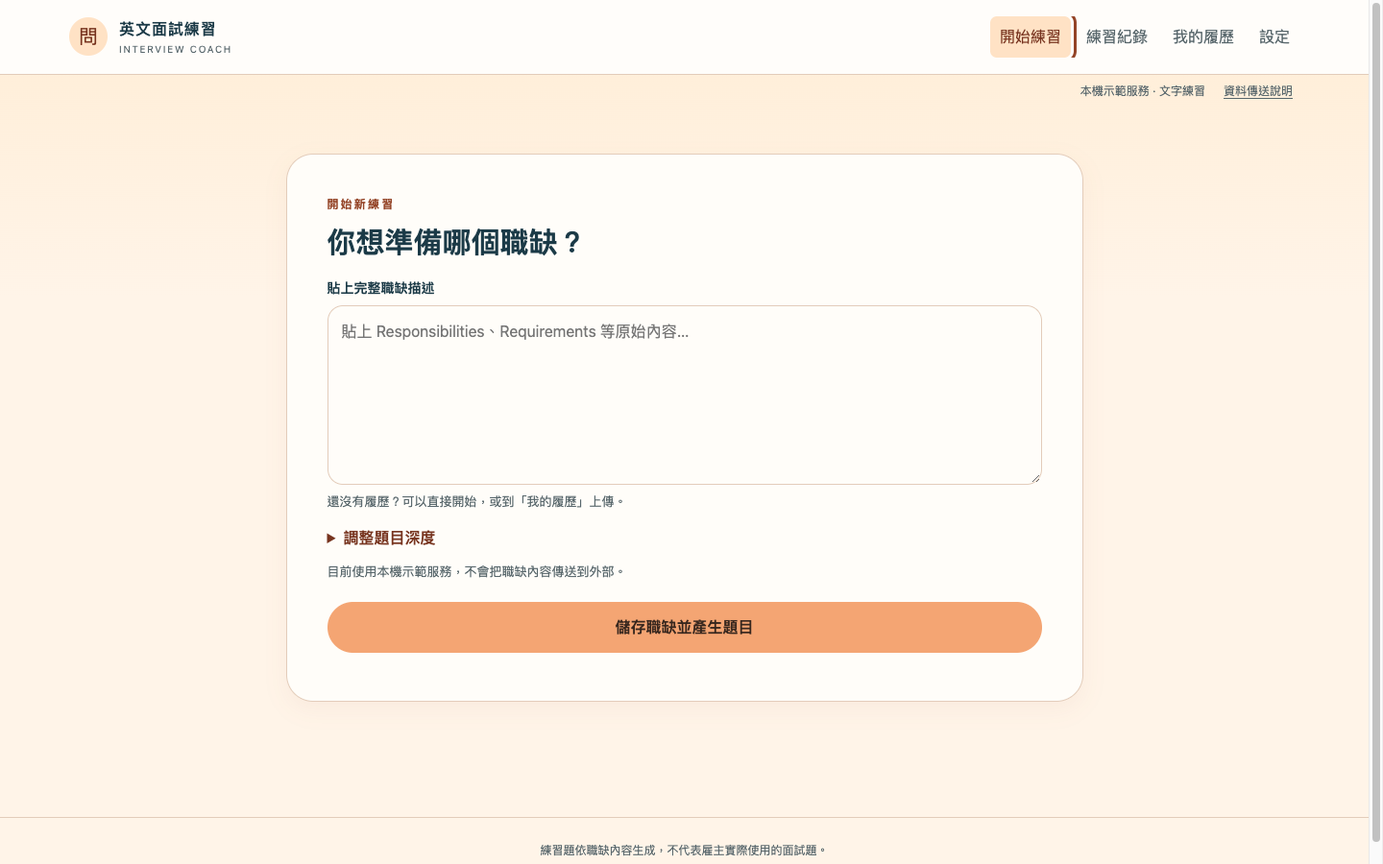
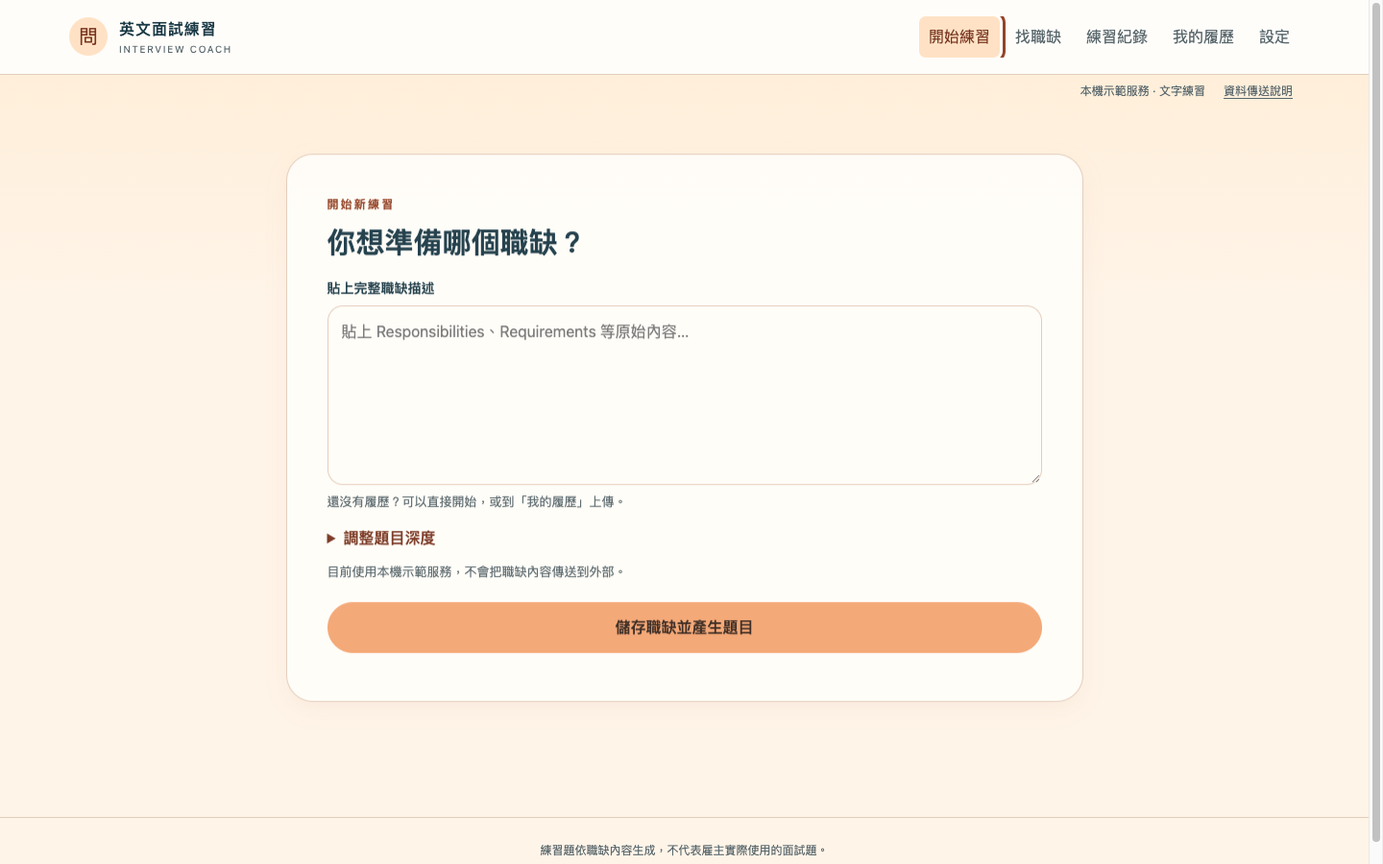
feat: Turn a natural-language job request into confirmable criteria
The learner describes the job they want in their own words and confirms the
criteria that were understood before anything is searched or saved. A field
the learner did not state comes back empty rather than guessed, and an invalid
provider output leaves the saved profile untouched.

The Job Search Profile gains a salary field; profiles written before this
change still validate with it empty. The proposal is stored separately from
the profile so a repeated request identifier replays instead of calling the
provider twice. The job search view also gains the navigation entry it was
missing, which had left it unreachable.

Closes docs/issues/0019-interpret-a-natural-language-job-request.md

Changed region(s): [[0.6562, 0.0, 0.7812, 0.0933], [0.25, 0.28, 0.3125, 0.3422], [0.5, 0.7156, 0.5312, 0.7467]]

diff --git a/test/search-interpretation.test.js b/test/search-interpretation.test.js
@@ -1,0 +1,126 @@
+import {test} from 'node:test';
+import assert from 'node:assert/strict';
+import {harness} from './helpers.js';
+import {FakeLanguageModel} from '../src/providers.js';
+import {profileFields} from '../src/jobs.js';
+
+const legacyProfile = {roles:['engineer'],locations:['Taipei'],seniority:['mid'],workArrangements:['hybrid'],priorities:['Python'],exclusions:['Senior']};
+
+test('a request becomes a proposal with unstated fields left empty, and nothing is saved until confirmed', async t => {
+  const model = new FakeLanguageModel();
+  const seen = [];
+  const original = model.interpretSearch.bind(model);
+  model.interpretSearch = async args => { seen.push(args); return original(args); };
+  const {api} = await harness(t, model);
+
+  const before = (await api('/job-search-profile')).data;
+  assert.deepEqual(Object.keys(before).sort(), [...profileFields].sort());
+  assert.ok(profileFields.every(field => before[field].length === 0), 'a fresh profile is empty, never guessed');
+
+  const result = (await api('/discovery/interpret', {request: '根據我的履歷，幫我找台灣適合轉職的 AI 職缺，最好能遠端'})).data;
+  assert.equal(seen.length, 1);
+  assert.equal(seen[0].request, '根據我的履歷，幫我找台灣適合轉職的 AI 職缺，最好能遠端');
+  assert.deepEqual(Object.keys(result.proposal).sort(), [...profileFields].sort());
+  assert.ok(result.proposal.roles.length, 'a stated role is extracted');
+  assert.ok(result.proposal.locations.length, 'a stated location is extracted');
+  assert.ok(result.proposal.workArrangements.length, 'a stated work arrangement is extracted');
+  assert.deepEqual(result.proposal.exclusions, [], 'an unstated field stays empty');
+  assert.ok(Date.parse(result.interpretedAt));
+
+  // The proposal is shown for confirmation; it is not the saved profile.
+  assert.deepEqual((await api('/job-search-profile')).data, before, 'interpreting must not save the profile');
+
+  // Confirming is an ordinary profile write.
+  assert.deepEqual((await api('/job-search-profile', result.proposal)).data, result.proposal);
+  assert.deepEqual((await api('/job-search-profile')).data, result.proposal);
+});
+
+test('a request that states nothing produces an empty proposal rather than invented criteria', async t => {
+  const {api} = await harness(t);
+  const result = (await api('/discovery/interpret', {request: 'I would like a job that is good.'})).data;
+  assert.ok(profileFields.every(field => result.proposal[field].length === 0), `expected everything empty, got ${JSON.stringify(result.proposal)}`);
+});
+
+test('an invalid proposal is rejected as provider output and leaves the saved profile untouched', async t => {
+  const model = new FakeLanguageModel();
+  const {api} = await harness(t, model);
+  await api('/job-search-profile', legacyProfile);
+  const saved = (await api('/job-search-profile')).data;
+
+  for (const bad of [
+    {roles: 'not-a-list'},
+    {...Object.fromEntries(profileFields.map(f => [f, []])), extra: []},
+    {roles: [], locations: [], seniority: [], workArrangements: [], priorities: [], exclusions: []},
+    {...Object.fromEntries(profileFields.map(f => [f, []])), roles: ['']},
+    {...Object.fromEntries(profileFields.map(f => [f, []])), roles: Array.from({length: 21}, (_, i) => `role-${i}`)},
+    {...Object.fromEntries(profileFields.map(f => [f, []])), roles: ['x'.repeat(101)]},
+    null
+  ]) {
+    model.interpretSearch = async () => bad;
+    const refused = await api('/discovery/interpret', {request: 'find me something'});
+    assert.equal(refused.status, 502, `expected 502 for ${JSON.stringify(bad)}`);
+    assert.deepEqual((await api('/job-search-profile')).data, saved, 'a rejected proposal must not change the saved profile');
+  }
+});
+
+test('an empty or oversized request is refused before the provider is called', async t => {
+  let calls = 0;
+  const model = new FakeLanguageModel();
+  model.interpretSearch = async () => { calls++; return Object.fromEntries(profileFields.map(f => [f, []])); };
+  const {api} = await harness(t, model);
+  assert.equal((await api('/discovery/interpret', {request: '   '})).status, 400);
+  assert.equal((await api('/discovery/interpret', {request: 'x'.repeat(2001)})).status, 400);
+  assert.equal((await api('/discovery/interpret', {})).status, 400);
+  assert.equal(calls, 0);
+});
+
+test('a legacy six-field profile loads, and searching with the saved profile needs no new request text', async t => {
+  const {api} = await harness(t, undefined, {jobSource: {name: 'fixture', async search() { return [{id: 'a', title: 'AI Software Engineer', location: 'Taipei', text: 'AI Software Engineer\nTaipei\nBuild Python services.', sourceUrl: 'https://example.com/a', source: 'fixture'}]; }}});
+  assert.deepEqual((await api('/job-search-profile', legacyProfile)).data.salary, [], 'salary defaults empty for a legacy write');
+  const withSalary = {...legacyProfile, salary: ['月薪 70k 以上']};
+  assert.deepEqual((await api('/job-search-profile', withSalary)).data, withSalary);
+
+  // Searching uses the saved profile; no interpretation is required.
+  await api('/job-search-profile', {...Object.fromEntries(profileFields.map(f => [f, []])), roles: ['AI']});
+  const run = (await api('/discovery', {})).data;
+  assert.equal(run.results.length, 1);
+});
+
+test('interpretation is idempotent per request identifier and is cancellable', async t => {
+  let calls = 0, release;
+  const gate = new Promise(resolve => { release = resolve; });
+  const model = new FakeLanguageModel();
+  model.interpretSearch = async () => { calls++; await gate; return {...Object.fromEntries(profileFields.map(f => [f, []])), roles: ['AI Engineer']}; };
+  const {api, base} = await harness(t, model);
+  const send = requestId => fetch(`${base}/api/discovery/interpret`, {method: 'POST', headers: {'Content-Type': 'application/json', 'X-Request-Id': requestId}, body: JSON.stringify({request: 'find me an AI job'})}).then(async r => ({status: r.status, data: await r.json()}));
+
+  const first = send('interpret-request-one');
+  while (!calls) await new Promise(r => setTimeout(r, 5));
+  release();
+  const done = await first;
+  assert.equal(done.status, 200);
+  assert.deepEqual(done.data.proposal.roles, ['AI Engineer']);
+
+  // The same identifier replays the stored proposal rather than calling again.
+  const replay = await send('interpret-request-one');
+  assert.equal(replay.status, 200);
+  assert.deepEqual(replay.data.proposal, done.data.proposal);
+  assert.equal(calls, 1, 'a repeated request identifier must not call the provider twice');
+
+  const operations = (await api('/operations')).data;
+  assert.ok(operations.some(operation => operation.kind === 'interpret'), 'interpretation is tracked as an operation');
+});
+
+test('deleting all local data removes the saved search profile and the proposal', async t => {
+  const {api} = await harness(t);
+  await api('/discovery/interpret', {request: '幫我找台灣的 AI 職缺'});
+  await api('/job-search-profile', legacyProfile);
+  assert.ok((await api('/workspace')).data.jobSearchProposal);
+
+  assert.equal((await api('/workspace/delete', {confirmation: 'DELETE ALL LOCAL DATA'})).status, 200);
+  const after = (await api('/workspace')).data;
+  assert.equal(after.jobSearchProfile, undefined);
+  assert.equal(after.jobSearchProposal, undefined);
+  const reset = (await api('/job-search-profile')).data;
+  assert.ok(profileFields.every(field => reset[field].length === 0));
+});

diff --git a/public/app.js b/public/app.js
@@ -15,7 +15,7 @@ const dimensions = {
   englishExpression: '英文表達'
 };
 const recordStates = {answer:'準備初答',feedback:'等待回饋',revise:'等待修改回答',compare:'等待比較與保存',completed:'已完成'};
-const operationNames = {analysis:'產生題目',questions:'新增題目',feedback:'取得回饋','follow-up':'產生追問題目','follow-up-feedback':'取得追問回饋','follow-up-transcription':'追問語音轉成文字','session-summary':'整理整場回饋','session-feedback':'取得逐題回饋','session-transcription':'模擬語音轉成文字','session-corrections':'整理關鍵句修正','session-coaching':'準備英文示範',followUp:'產生追問題目',coaching:'準備練習建議',corrections:'整理關鍵句修正',transcription:'語音轉成文字',discovery:'搜尋職缺',url:'取得職缺'};
+const operationNames = {analysis:'產生題目',questions:'新增題目',feedback:'取得回饋','follow-up':'產生追問題目','follow-up-feedback':'取得追問回饋','follow-up-transcription':'追問語音轉成文字','session-summary':'整理整場回饋','session-feedback':'取得逐題回饋','session-transcription':'模擬語音轉成文字','session-corrections':'整理關鍵句修正','session-coaching':'準備英文示範',followUp:'產生追問題目',coaching:'準備練習建議',corrections:'整理關鍵句修正',transcription:'語音轉成文字',discovery:'搜尋職缺',interpret:'整理搜尋條件',url:'取得職缺'};
 
 let workspace = {snapshots:{}, analyses:{}, records:{}};
 let providerInfo;
@@ -1295,13 +1295,30 @@ async function renderEvidence({clearText=false}={}) {
   if(resume)button('移除目前履歷',async()=>{if(!confirm('移除目前履歷？既有練習保留當時的履歷版本；可在設定刪除全部資料。'))return;await api('/resume',undefined,'DELETE');await refreshWorkspace();await renderEvidence();},$('#resume-actions'),{kind:'ghost'});
 }
 
+const searchFieldLabels = {roles:'想找的職務',locations:'地點',seniority:'年資層級',workArrangements:'工作方式',salary:'薪資期待',priorities:'重視條件',exclusions:'排除條件'};
+
+function fillSearchFields(values) {
+  for (const field of Object.keys(searchFieldLabels)) {
+    const input = $(`#profile-${field}`);
+    if (input) input.value = (values[field] || []).join(', ');
+  }
+}
+
 async function renderDiscovery() {
   const parent = $('#discovery'); parent.replaceChildren();
   const profile = await api('/job-search-profile');
   const form = document.createElement('section'); form.className = 'settings-section';
-  form.innerHTML = '<p>搜尋只會在你按下按鈕時進行。Greenhouse 會提供公開職缺，條件篩選留在本機。</p>';
-  const labels = {roles:'想找的職務',locations:'地點',seniority:'年資層級',workArrangements:'工作方式',priorities:'重視條件',exclusions:'排除條件'};
-  for (const [field,text] of Object.entries(labels)) form.insertAdjacentHTML('beforeend', `<label for="profile-${field}">${escape(text)}（以逗號分隔）</label><input id="profile-${field}" value="${escape(profile[field].join(', '))}">`);
+  // Describe it in your own words; the product proposes criteria and you confirm them.
+  form.innerHTML = `<h2>用一句話說你想找什麼</h2><label for="search-request">例如：根據我的履歷，幫我找台灣適合轉職的 AI 職缺，最好能遠端</label>
+    <textarea id="search-request" rows="3" placeholder="用中文或英文都可以。"></textarea>
+    <p class="data-note" id="interpret-disclosure"></p>
+    <div class="button-row" id="interpret-actions"></div>
+    <div id="interpret-result" aria-live="polite"></div>
+    <hr>
+    <h2>搜尋條件</h2>
+    <p>這些是實際會用來搜尋的條件，你可以直接修改。搜尋只會在你按下按鈕時進行，履歷不會送到職缺板。</p>`;
+  const labels = searchFieldLabels;
+  for (const [field,text] of Object.entries(labels)) form.insertAdjacentHTML('beforeend', `<label for="profile-${field}">${escape(text)}（以逗號分隔）</label><input id="profile-${field}" value="${escape((profile[field] || []).join(', '))}">`);
   const save = () => api('/job-search-profile', Object.fromEntries(Object.keys(labels).map(field => [field,$(`#profile-${field}`).value.split(',').map(value => value.trim()).filter(Boolean)])));
   button('儲存搜尋條件', save, form, {kind:'secondary'});
   const results = document.createElement('div'); results.id = 'discovery-results';
@@ -1317,6 +1334,31 @@ async function renderDiscovery() {
   form.insertAdjacentHTML('beforeend', '<hr><label for="job-url">支援的 Greenhouse 職缺網址</label><input id="job-url" type="url" placeholder="https://job-boards.greenhouse.io/…">');
   button('取得並保存職缺', async () => { const snapshot = await api('/snapshots/from-url', {url:$('#job-url').value}); await refreshWorkspace(); await api(`/snapshots/${snapshot.id}/analysis`, {}); await refreshWorkspace(); await showRecommended(snapshot.id); }, form, {kind:'secondary'});
   parent.append(form, results);
+
+  $('#interpret-disclosure').textContent = providerInfo?.languageModel?.external
+    ? `你寫的這句話會傳送給 ${providerInfo.languageModel.name} 來整理成搜尋條件。你的履歷不會送到職缺板。`
+    : '目前使用本機示範服務，這句話不會傳送到外部；示範服務只會抓出少數明顯的關鍵字。';
+  button('整理成搜尋條件', async () => {
+    const request = $('#search-request').value;
+    if (!request.trim()) { setError('請先用一句話描述你想找的職缺。'); $('#search-request').focus(); return; }
+    const panel = $('#interpret-result');
+    panel.innerHTML = '<p class="meta">正在整理你說的條件…</p>';
+    try {
+      const result = await api('/discovery/interpret', {request});
+      const stated = Object.entries(searchFieldLabels).filter(([field]) => result.proposal[field]?.length);
+      panel.innerHTML = `<div class="provider-warning"><strong>我理解成這些條件</strong>
+        ${stated.length ? `<ul class="interpreted-list">${stated.map(([field, label]) => `<li><strong>${escape(label)}</strong>：${escape(result.proposal[field].join('、'))}</li>`).join('')}</ul>` : '<p>你這句話裡沒有明確的條件。你可以直接在下面填寫。</p>'}
+        <p class="meta">沒有講到的條件會留空，不會替你猜。確認後才會套用到下面的搜尋條件，也才會儲存。</p>
+        <div class="button-row" id="interpret-confirm"></div></div>`;
+      button('套用這些條件', async () => {
+        fillSearchFields(result.proposal);
+        await save();
+        setNotice('搜尋條件已更新並儲存。可以再修改，或直接搜尋。');
+        panel.replaceChildren();
+      }, $('#interpret-confirm'), {kind:'secondary', id:'apply-interpreted'});
+      button('不要套用', () => panel.replaceChildren(), $('#interpret-confirm'), {kind:'ghost'});
+    } catch (error) { panel.innerHTML = '<p class="meta">沒有整理出條件，你的搜尋條件沒有被改動。可以修改描述後再試一次。</p>'; throw error; }
+  }, $('#interpret-actions'), {id:'interpret-request'});
 }
 
 function renderSettings() {

diff --git a/src/server.js b/src/server.js
@@ -115,6 +115,14 @@ export async function createApplication({directory = '.workspace', languageModel
       if (method === 'GET') return {...emptyProfile(), ...(store.data.jobSearchProfile || {})};
       if (method === 'POST') {const profile = validateProfile(input); return commit(d => (d.jobSearchProfile = profile));}
     }
+    // The learner's own words become a proposed Job Search Profile, shown for
+    // confirmation. Nothing is searched and nothing is saved until they confirm.
+    if (method === 'POST' && path === '/api/discovery/interpret') {
+      requireValue(nonempty(input.request) && input.request.length <= 2000, '請先用一句話描述你想找的職缺（最多 2000 字）。');
+      const proposal = validateProfileProposal(await languageModel.interpretSearch({request: input.request, signal: context?.signal}));
+      // Held as a proposal, not as the profile: confirming is what saves it.
+      return commit(d => (d.jobSearchProposal = {id: randomUUID(), proposal, request: input.request, interpretedAt: new Date().toISOString()}));
+    }
     if (method === 'POST' && path === '/api/discovery') {
       const profile = {...emptyProfile(), ...(store.data.jobSearchProfile || {})};
       const results = matchingJobs(await boundedSource(() => jobSource.search({profile: structuredClone(profile), signal: context?.signal}), sourceTimeoutMs), profile);
@@ -650,6 +658,7 @@ export async function createApplication({directory = '.workspace', languageModel
           else if(followUpGeneration)external={targetId:followUpGeneration[1],kind:'follow-up'};
           else if(followUpFeedback)external={targetId:followUpFeedback[1],kind:'follow-up-feedback'};
           else if(followUpTranscription)external={targetId:followUpTranscription[1],kind:'follow-up-transcription'};
+          else if(path==='/api/discovery/interpret')external={targetId:'workspace',kind:'interpret'};
           else if(['/api/discovery','/api/snapshots/from-url'].includes(path))external={targetId:'workspace',kind:path.endsWith('from-url')?'url':'discovery'};
         }
         const replay = async op => {
@@ -665,6 +674,7 @@ export async function createApplication({directory = '.workspace', languageModel
           if (op.kind==='session-feedback') {const s=item('mockSessions',op.targetId);const entry=s.entries.find(e=>e.id===op.resultId);requireValue(entry,'Session answer no longer available',409);return entry;}
           if (op.kind==='session-corrections') {const s=item('mockSessions',op.targetId);const saved=s.entries.map(e=>e.corrections).find(c=>c?.id===op.resultId);requireValue(saved,'Corrections no longer available',409);return saved;}
           if (op.kind==='session-coaching') {const s=item('mockSessions',op.targetId);const saved=s.entries.flatMap(e=>Object.values(e.coaching||{})).find(c=>c.id===op.resultId);requireValue(saved,'Assistance no longer available',409);return saved;}
+          if (op.kind==='interpret') {const saved=store.data.jobSearchProposal;requireValue(saved?.id===op.resultId,'Search criteria expired; describe the job again',409);return saved;}
           if (op.kind==='url') return item('snapshots',op.resultId);
           const run=store.data.discoveryRuns?.[op.resultId];requireValue(run,'Discovery run expired; start a new request',409);return run;
         };

diff --git a/test/browser-smoke.js b/test/browser-smoke.js
@@ -218,6 +218,26 @@ try {
  fill('#job-search','zzz-no-match');await wait(()=>el('.job-list .empty'),'search filters job list');
  if(document.documentElement.scrollWidth>innerWidth)throw Error('Mobile overflow on filtered job list');
  `);
+ // Natural-language search criteria: describe it, confirm what was understood.
+ await run(`
+ click('nav [data-view="discovery"]');await wait(()=>el('#search-request'),'job search view');
+ if(!el('#interpret-disclosure').textContent.trim())throw Error('Outbound disclosure missing for the request text');
+ const before=await fetch('/api/job-search-profile').then(r=>r.json());
+ fill('#search-request','根據我的履歷，幫我找台灣適合轉職的 AI 職缺，最好能遠端');
+ click('#interpret-request');await wait(()=>el('.interpreted-list'),'criteria proposed');
+ const shown=el('.interpreted-list').textContent;
+ if(!shown.includes('AI'))throw Error('Stated role not understood: '+shown);
+ if(shown.includes('排除條件'))throw Error('An unstated field was guessed: '+shown);
+ if(JSON.stringify(await fetch('/api/job-search-profile').then(r=>r.json()))!==JSON.stringify(before))throw Error('Interpreting saved the profile before the learner confirmed');
+ click('#apply-interpreted');await wait(()=>el('#notice').textContent.includes('搜尋條件已更新'),'criteria applied on confirmation');
+ if(!el('#profile-roles').value.includes('AI'))throw Error('Confirmed criteria did not reach the editable fields');
+ // Every field stays editable before searching.
+ fill('#profile-exclusions','Manager');
+ click(btn('儲存搜尋條件'));await new Promise(r=>setTimeout(r,200));
+ const saved=await fetch('/api/job-search-profile').then(r=>r.json());
+ if(!saved.exclusions.includes('Manager'))throw Error('Edited criteria were not saved');
+ if(document.documentElement.scrollWidth>innerWidth)throw Error('Mobile overflow on the job search view');
+ `);
  // Short Mock Session: three questions in a row, no coaching during, summary at the end.
  await run(`
  click('[data-view="history"]');await wait(()=>el('#job-search'),'history for the mock session');

diff --git a/public/style.css b/public/style.css
@@ -454,3 +454,7 @@ mark { background: #ffe2c5; color: #1b3a47; border-radius: 4px; }
 .mock-entry { margin-bottom: 14px; }
 .mock-entry h3 { margin: 4px 0 8px; font-size: 16px; }
 .mock-skipped { display: inline-block; margin-bottom: 6px; padding: 3px 10px; border-radius: 999px; background: var(--mist); color: var(--ink-soft); font-size: 13px; }
+
+/* Interpreted search criteria: what the coach understood, before anything is saved. */
+.interpreted-list { margin: 8px 0; padding-left: 20px; }
+.interpreted-list li { margin-bottom: 4px; }

diff --git a/public/index.html b/public/index.html
@@ -16,6 +16,7 @@
     </button>
     <nav aria-label="主要導覽">
       <button type="button" data-view="home">開始練習</button>
+      <button type="button" data-view="discovery">找職缺</button>
       <button type="button" data-view="history">練習紀錄</button>
       <button type="button" data-view="evidence">我的履歷</button>
       <button type="button" data-view="settings">設定</button>

diff --git a/docs/verification/0019.md b/docs/verification/0019.md
@@ -1,0 +1,45 @@
+# Issue 0019 verification — interpret a natural-language job request
+
+Date: 2026-09-21. Implementation by the main agent. **No independent review yet**
+(the reviewer hit an API session limit; see issue 0016's note).
+
+| AC | Evidence |
+|---|---|
+| A request in Chinese or English yields separate confirmable fields | `POST /api/discovery/interpret` returns a proposal keyed by all seven profile fields; the browser renders only the fields the learner actually stated |
+| An unstated field comes back empty, never guessed | Asserted twice: a fully-stated request leaves `exclusions` empty, and a request stating nothing yields every field empty |
+| The learner can edit or clear any field before confirming | The proposal fills the existing editable inputs; the browser edits `exclusions` afterwards and saves |
+| Nothing is saved until confirmed | The saved profile is compared byte-identical before and after interpreting, at the API and in the browser |
+| An invalid provider output is rejected and the profile is unchanged | Seven malformed shapes (wrong type, extra key, missing `salary` key, empty string, over-length list, over-length term, null) each return 502 with the saved profile untouched |
+| Searching with the saved profile and no new request still works | Asserted with a stub job source |
+| A legacy six-field profile loads with an empty salary | Asserted on write and on read; `validateProfile` requires only the six original fields |
+| Cancellable, retryable, idempotent per request identifier | A gated provider proves one call for two identical `X-Request-Id` requests; the operation appears as `interpret` in `/api/operations` |
+| The interface states the request text is sent to the model | `#interpret-disclosure` names the configured provider, or says the demonstration service sends nothing outbound |
+| Deleting all local data removes the saved profile | Asserted, including the stored proposal |
+
+Automated evidence: `node --test test/search-interpretation.test.js` — 7/7 pass.
+`npm test` — 151/151 pass. `npm run test:browser` — PASS, including describing a
+job in Chinese, seeing the understood criteria, confirming them, and editing a
+field afterwards.
+
+Implementation notes worth flagging:
+
+- The proposal is persisted as `jobSearchProposal`, separate from
+  `jobSearchProfile`. It has to be stored for the operations tracker to replay a
+  repeated request identifier without calling the provider twice. Storing it does
+  **not** make it the learner's criteria: only confirming writes the profile.
+- The Job Search Profile gained a seventh field, `salary`. Writes accept the six
+  original fields and default `salary` to empty, so profiles written by an earlier
+  version still validate.
+- The 找職缺 view had no entry in the main navigation and was effectively
+  unreachable; it now has one.
+
+Limits and what is **not** verified:
+
+- The demonstration provider's interpreter is a fixed keyword matcher, not a
+  model. It proves the confirm-before-search flow and the "never guess" rule, and
+  is **no evidence at all** about how well a real model reads a learner's sentence.
+  Quality with a configured provider is pending human validation.
+- Salary is stored as the learner's own words and is not parsed into a number or
+  used for filtering in this issue.
+- The curated shortlist, the Fit Breakdown, multi-source search and the
+  no-results relaxations are issue 0020 and are not implemented here.

diff --git a/docs/issues/0019-interpret-a-natural-language-job-request.md b/docs/issues/0019-interpret-a-natural-language-job-request.md
@@ -1,5 +1,5 @@
 ---
-status: ready-for-agent
+status: ready-for-human
 ---
 
 # Interpret a natural-language job request into a confirmed Job Search Profile
@@ -37,26 +37,32 @@ sent to the configured model.
 
 ## Acceptance criteria
 
-- [ ] A learner can write a request in Chinese or English and see the criteria that
+- [x] A learner can write a request in Chinese or English and see the criteria that
       were understood, as separate fields for role, seniority, location, work
       arrangement, salary, priorities and exclusions.
-- [ ] A field the learner did not state comes back empty rather than guessed.
-- [ ] The learner can edit or clear any field before confirming.
-- [ ] Nothing is saved until the learner confirms; confirming saves the profile.
-- [ ] An invalid provider output is rejected and the saved profile is unchanged.
-- [ ] Searching with the saved profile and no new request text still works.
-- [ ] A profile saved before this change loads with an empty salary field and can be
+- [x] A field the learner did not state comes back empty rather than guessed.
+- [x] The learner can edit or clear any field before confirming.
+- [x] Nothing is saved until the learner confirms; confirming saves the profile.
+- [x] An invalid provider output is rejected and the saved profile is unchanged.
+- [x] Searching with the saved profile and no new request text still works.
+- [x] A profile saved before this change loads with an empty salary field and can be
       re-saved with the full set.
-- [ ] Interpretation is cancellable and retryable through the operations tracker, and
+- [x] Interpretation is cancellable and retryable through the operations tracker, and
       a repeated request with the same identifier does not call the provider twice.
-- [ ] The interface states that the request text is sent to the configured model.
-- [ ] Deleting all local data removes the saved profile.
-- [ ] API-level tests cover: unstated fields staying empty, validation rejecting an
+- [x] The interface states that the request text is sent to the configured model.
+- [x] Deleting all local data removes the saved profile.
+- [x] API-level tests cover: unstated fields staying empty, validation rejecting an
       invalid proposal without changing the saved profile, the proposal not being
       saved before confirmation, and legacy six-field profiles loading.
-- [ ] Browser smoke covers typing a request, seeing the proposed criteria, editing one
+- [x] Browser smoke covers typing a request, seeing the proposed criteria, editing one
       field, and confirming.
 
 ## Blocked by
 
 None — can start immediately.
+
+## Verification
+
+Implemented and verified through the API and browser seams.
+[Evidence](../verification/0019.md). No independent review yet, and interpretation
+quality with a configured model is pending human validation.

diff --git a/docs/issues/README.md b/docs/issues/README.md
@@ -22,7 +22,7 @@ Local issue tracker for the Adaptive English Interview Coach. All issues below w
 | [0016 — Retain and replay Answer Recordings](./0016-retain-and-replay-answer-recordings.md) | ready-for-human | 0015 |
 | [0017 — Answer by voice in every answer path](./0017-answer-by-voice-in-every-answer-path.md) | ready-for-human | 0015, 0016 |
 | [0018 — Run a three-question Short Mock Session](./0018-run-a-three-question-short-mock-session.md) | ready-for-human | 0017 |
-| [0019 — Interpret a natural-language job request](./0019-interpret-a-natural-language-job-request.md) | ready-for-agent | None |
+| [0019 — Interpret a natural-language job request](./0019-interpret-a-natural-language-job-request.md) | ready-for-human | None |
 | [0020 — Curate five jobs with a Fit Breakdown](./0020-curate-five-jobs-with-a-fit-breakdown.md) | ready-for-agent | 0019 |
 
 Implementation should proceed in dependency order. Start each issue in a fresh session with the PRD and only the selected issue as the implementation brief.

diff --git a/docs/verification/0016.md b/docs/verification/0016.md
@@ -1,8 +1,14 @@
 # Issue 0016 verification — retain and replay Answer Recordings
 
 Date: 2026-09-21. Implements [ADR 0019](../adr/0019-retain-local-answer-recordings-for-playback.md).
-Implementation by the main agent; an independent read-only reviewer checked the
-diff against the acceptance criteria, ADR 0019 and the PRD.
+Implementation by the main agent.
+
+**An independent review of this issue was started and did not complete** (the
+reviewer hit an API session limit part-way through). The evidence below is
+therefore automated-test and self-review evidence only. The data-integrity
+invariant — a crash may leave an unreferenced file, never a reference without its
+file — and the path-safety of `RecordingStore.path()` are the two areas that most
+warrant an independent read before this is considered settled.
 
 | AC | Evidence |
 |---|---|
